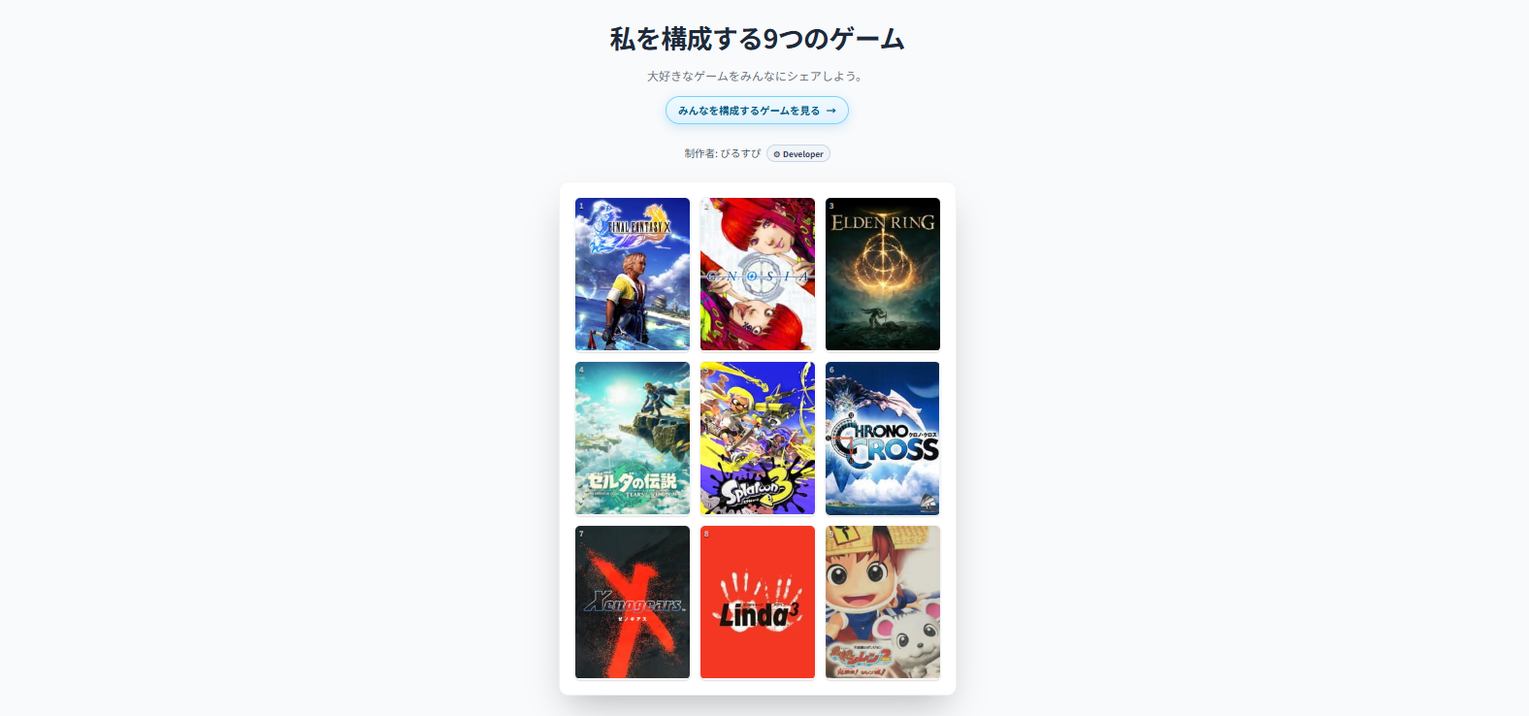
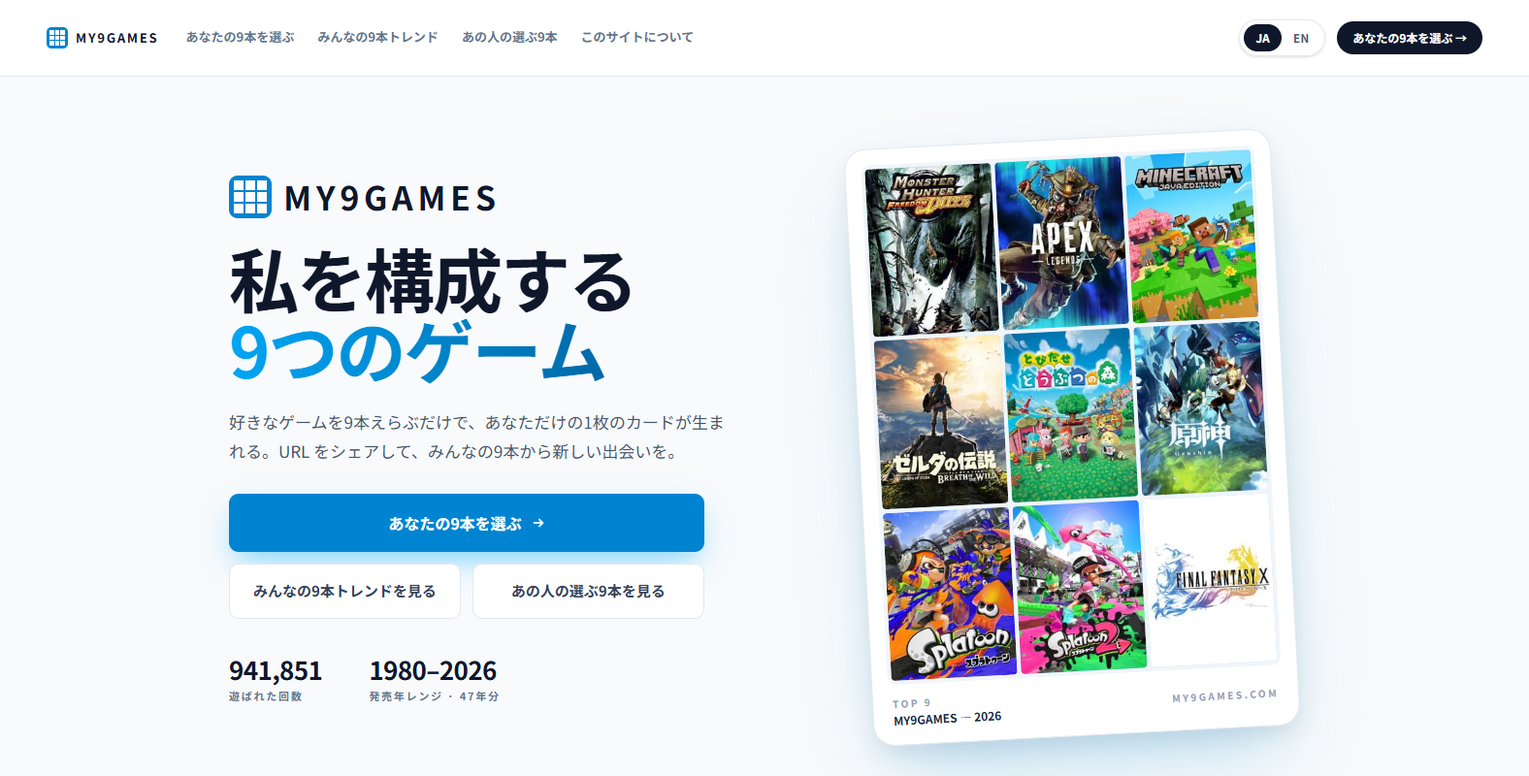
docs: my9games-devlog を改稿し、トップページのスクショを最新に差し替え
- 本文: 技術的な経緯（IGDB との提携、bot 対策、ホスティング移行、デプロイの自動化、データ設計の理由）と教訓の節を削り、感想と出来事を中心にした振り返りに書き直し
- 見出しを機能・出来事の名前に変更（共有機能、トレンドページ、3月4日、再開 など）。太字を削除
- 001.png: my9games.com の現在のトップページ（1576x800、広告なし）に差し替え

diff --git a/_posts/2026-03-20-my9games-devlog.md b/_posts/2026-03-20-my9games-devlog.md
@@ -21,15 +21,15 @@ last_modified_at: 2026-10-01 00:00:00 +0900
 
 これのゲーム版が欲しくなりまして、[MY9GAMES](https://my9games.com/)（My 9 Games \| 私を構成する9つのゲーム、以下「MY9GAMES」）というWebアプリをこの度作ってみました。9本のゲームを選んで3×3の画像にし、共有ページとして見せられるようにしたものです。投稿データを集計して、[コミュニティ全体でどんなゲームが選ばれているか](https://my9games.com/trends)も見られるようにしています。
 
-作り始めたときは、検索して、選んで、画像にできれば十分だと思っていました。ところがいざ公開運用を始めると、検索、画像生成、ランキング、コスト、保存方針、サイトのルールまで、色々と問題が立ち上がってきました。
+作り始めたときは、検索して、選んで、画像にできれば十分だと思っていました。ところが公開してみると、検索がエラーを返す、課金が膨らむ、画像の生成が失敗する、投稿をいつまで残すか決まっていない、と問題が次々に出てきました。
 
-この記事は、小さく始めたプロダクトが、公開運用の現実にぶつかったときの記録です。
+この記事では、2月13日に作り始めてから3月11日に落ち着くまでの約1か月を振り返ります。
 
 なお、ありがたいことに、はじめしゃちょーさんをはじめ多くの方に遊んでいただきました。
 
 <blockquote class="twitter-tweet"><p lang="ja" dir="ltr">私を構成する9つのゲーム <a href="https://twitter.com/hashtag/My9Games">#My9Games</a> <a href="https://twitter.com/hashtag/%E7%A7%81%E3%82%92%E6%A7%8B%E6%88%90%E3%81%99%E3%82%8B9%E3%81%A4%E3%81%AE%E3%82%B2%E3%83%BC%E3%83%A0">#私を構成する9つのゲーム</a></p>&mdash; はじめしゃちょー(hajime) (@hajimesyacho) <a href="https://twitter.com/hajimesyacho/status/2029858117530566731?ref_src=twsrc%5Etfw">March 5, 2026</a></blockquote> <script async src="https://platform.twitter.com/widgets.js" charset="utf-8"></script>
 
-こちらに様々な方の投稿をまとめています。
+こちらに様々な方の投稿をまとめています。一伊那尓栖さんとかもいて、マジすごい…。
 [あの人の選ぶ9本 | 推しクリエイターのゲーム選 | MY9GAMES](https://my9games.com/featured)
 
 メディアにも取り上げていただきました。
@@ -37,149 +37,88 @@ last_modified_at: 2026-10-01 00:00:00 +0900
 - [「My 9 Games」が流行の兆し。マイナータイトルや「ネタバレ防止機能」もある、ゲーム特化の思い出共有サイト - AUTOMATON](https://automaton-media.com/articles/newsjp/20260226-424512/)
 - [好きなゲーム9本を選んで自己紹介できるサイト「My9Games」が流行中 - 電ファミニコゲーマー](https://news.denfaminicogamer.jp/news/260226r)
 
-## なぜ「私を構成する9本のゲーム」を作ろうと思ったのか
+## なぜ「MY9GAMES」を作ろうと思ったのか
 
 出発点は、先ほど触れた「私を構成する9枚」でした。SNSで流行っていた頃に自分も参加したことがあって、あの「9つ並べるだけで自分が出る」感覚がずっと頭に残っていました。
 
-ある日ふと、「これのゲーム版があってもいいのでは？」と思いました。作りたかったのは、ランキングやレビューではなく、自己表現のためのフォーマットでしたので、最初から、一覧性のある3×3グリッドに並べるという形が中心にありましたし、画像にして持ち出せること、共有URLとして残せることまで、一続きの体験としてあったら面白いし、SNSで流行るに違いないと考えていました。
+ある日ふと、「これのゲーム版があってもいいのでは？」と思いました。
+
+画像にして持ち出せて、共有URLでも見せられる！そこまでできたら面白いし、SNSで流行るに違いないと思っていました。
 
 ## 構想から2日でMVPを作成
 
-2月13日に構想に着手し、15日にはMVP（Minimum Viable Product）を動かしました。ゲームを検索して、9本選んで、3×3に並べて、コメントを入れて、画像として保存できる。まずはそこまで通すことが目標でした。
+2月13日に考え始めて、15日にはMVP（Minimum Viable Product）が動きました。ゲームを検索して、9本選んで、3×3に並べて、コメントを入れて、画像として保存できる。まずはそこまで通すことが目標でした。
 
-このときは、後で問題になるだろうと薄々感じていたことも、かなり後回しにしています。公開運用を前提にした保存設計、共有URLの責務、コストの見積もり、集計の仕組み、削除方針……。今見ると危ういですが、早く公開してみたいという思いのもと、2日でMVPを立ち上げるにはその割り切りが必要でした。無謀ですね。
+このとき、後で問題になりそうだと薄々感じていたことも、かなり後回しにしています。投稿を何日保存するか、共有URLをいつまで有効にするか、月にいくらかかるか、ランキングをどう集計するか、消してほしいと言われたらどうするか……。早く公開してみたかったので、2日で作るために割り切りました。無謀ですね。
 
-実装はかなりシンプルです。検索して、選んで、グリッドに入れて、出力する。完成されたサービスというより、「まず遊べるもの」を成立させる立ち上げでした。
+実装がシンプルだったぶん、粗もすぐに見えてきました。検索UIの使い勝手、コメント編集の導線、9本選ぶまでの操作制御、モバイルでの見え方などです。
 
-ただ、そのぶん粗さもすぐに見えてきます。検索UIの使い勝手、コメント編集の導線、9本選ぶまでの操作制御、モバイルでの見え方。体験を一度通したことで、次に直すべきところが一気に浮かび上がりました。
+そして、後回しにしたものは結局ほとんどがあとで問題になりました。共有URLを付ける前に保存方針を決めておく、従量課金の増え方を見積もっておく、ランキングのデータを共有ページと分けておく。どれもあと数日あればできたことです。それをやらずに出した結果、7日後にサービスを止めることになり、その間ユーザーの検索の半分以上にエラーを返し続けてしまいました。早く出したから早く学べたのは事実ですが、早く出したから止めることになったのも事実で、そこは良くなかったと思っています。
 
-最初から全部を正しく設計しようとしなかったのは、結果的に良かったと思います。初速があったからこそ、「共有を入れた途端に何が足りなくなるか」「ランキングを作ろうとすると何が破綻するか」を早い段階で知ることができました。
-
-ただし、この初速にはそのまま代償がありました。共有URLを持たせる前に保存方針を決めておく、従量課金の増え方を見積もっておく、ランキングのデータ設計を共有ページと分けておく。どれもあと数日あればできたことです。それをやらずに出した結果、**7日後**にサービスを止めることになり、その間ユーザーには**半分以上**エラーを返し続ける状態を経験させています。早く出したから早く学べた、は事実ですが、早く出したから止めることになった、も同じくらい事実ですので、良くなかったと思います。
-
-## アプリではなくサービスになった
+## 共有機能
 
 MVPが動いた翌日から、共有機能やbot対策、アクセス制限の実装に取りかかり、2月19日にXでリリースを告知しました。
 
 <blockquote class="twitter-tweet"><p lang="ja" dir="ltr">【お知らせ】① 9本のゲームを選んで自己紹介できるサイトを作ってみました。 引用RTで画像や共有URLを貼ってシェアして遊んでみてください！ <a href="https://t.co/s9oNtITNHD">https://t.co/s9oNtITNHD</a> <a href="https://twitter.com/hashtag/My9Games">#My9Games</a> <a href="https://twitter.com/hashtag/%E7%A7%81%E3%82%92%E6%A7%8B%E6%88%90%E3%81%99%E3%82%8B9%E3%81%A4%E3%81%AE%E3%82%B2%E3%83%BC%E3%83%A0">#私を構成する9つのゲーム</a></p>&mdash; びるすぴ (@singingsores) <a href="https://twitter.com/singingsores/status/2024462993111789874?ref_src=twsrc%5Etfw">February 19, 2026</a></blockquote> <script async src="https://platform.twitter.com/widgets.js" charset="utf-8"></script>
 
-このWebアプリの最大の特徴は、共有URLの発行機能です。
+このWebアプリの最大の特徴は、やはり共有URLの発行機能ですよね。
 
-画像をローカルに保存するだけなら、ある程度はブラウザの中で完結します。ところが共有URLを発行して他人がアクセスできる状態にした瞬間、アプリというよりサービスとして考えないといけなくなりました。共有ページのURLは単なる識別子では済みません。他のユーザーと被らないID生成が必要ですし、第三者がアクセスする前提で、どんな入力を許すか、どのくらい保存するか、SNSシェア時のサムネイル画像をどう返すかまで決める必要があります。画像保存だけなら曖昧にできたことが、共有URLを持たせた途端に細かい仕様判断を迫られました。
+画像をローカルに保存するだけなら、ほぼブラウザの中で完結するのですが、共有URLを発行して他人が見られるようにすると、決めることが一気に増えました。
 
-ここで初めて、アクセス制限、入力チェック、サムネイル画像、利用規約、保存方針が一気に同じ問題としてつながりました。実装としては共有用のAPIを1本足しただけに見えますが、実態は「投稿を公開URLで持つサービス」です。ユーザー投稿をどう扱い、どこまで保持し、削除にどう対応するのか。実装だけでなく、サイトとしてのルールを決める必要が出てきました。
+他の人と被らないIDをどう作るか。知らない人が見る前提で、どんな入力を許すか。何日保存するか。SNSでシェアされたときのサムネイル画像をどう返すか…。
 
-なお、この時点でのゲーム検索は、ユーザーが文字を入力するたびに外部のゲームデータベースへリアルタイムで問い合わせる仕組みでした。この構造が、後にアクセス集中で致命傷になります。
+## トレンドページ
 
-## ランキング機能がもたらしたこと
+次にやりたくなったのが、みんながどんなゲームを選んでいるのかを見せるトレンドページです。自分の9本を作ったら、みんな全体の傾向も知りたくなるかと思いました。逆にトレンドを見てゲームを思い出し、自分の9本に追加するという流れもあるかとも思いました。
 
-次に見えてきたのが、「みんながどんなゲームを選んでいるのか」を見せたいという欲求です。自分の9本を作るだけでなく、全体の傾向も知りたい。実際にトレンドページは、このプロダクトの価値をもう一段広げる機能になりました。
-
-ただ、ここで問題になったのが、共有データの寿命とランキングの寿命は同じではないという点です。
-
-最初は、「共有ページが保存できていれば、あとで集計すればいい」と素朴に考えていました。でも実際には、共有ページは一時保存でも成立する一方、ランキングは日をまたいで残したい。共有ページは本人が満足したら消えても構わないかもしれませんが、ランキングは多くの投稿の積み重ねなので、個々の投稿が消えても保ちたい。このズレがある以上、すべてのデータを同じ保存先に押し込む設計は長く持ちませんでした。
-
-そこで、ランキング用の集計データを共有ページとは別に持つ方向へ進めました。共有ページの中身をそのまま読んで集計するのではなく、ランキングに必要な最小限の情報だけを別系統で保持する形です。さらに、投稿が作成されるたびにその場で重い集計処理を走らせるのではなく、まず記録だけ溜めておいて後でまとめて反映する仕組みも導入しました。単なる機能追加ではなく、データの持ち方の根本的な見直しでした。
-
-トレンドページを入れたことは、見た目以上にデータ設計をやり直すきっかけになりました。
-
-## バズで壊れて、一度停止
+## サイトを一次停止
 
 リリースから7日後の2026年2月26日、サービスを一度止めました。
 
 <blockquote class="twitter-tweet"><p lang="ja" dir="ltr">【お知らせ】 たくさんの方にご利用いただき本当にありがとうございます。現在、想定を大きく超えるアクセスが続いておりまして…完全に私単独の趣味の範囲で開発・保守をしているため、諸所の対応がSNSの拡散の力には到底追いつかない状況になってしまいました。 <a href="https://twitter.com/hashtag/My9Games">#My9Games</a> <a href="https://twitter.com/hashtag/%E7%A7%81%E3%82%92%E6%A7%8B%E6%88%90%E3%81%99%E3%82%8B9%E3%81%A4%E3%81%AE%E3%82%B2%E3%83%BC%E3%83%A0">#私を構成する9つのゲーム</a></p>&mdash; びるすぴ (@singingsores) <a href="https://twitter.com/singingsores/status/2026969121574043924?ref_src=twsrc%5Etfw">February 26, 2026</a></blockquote> <script async src="https://platform.twitter.com/widgets.js" charset="utf-8"></script>
 
-当時は、SNSでの拡散に対して検索系のエラーが高止まりしていました。停止前日の計測では、1日の検索回数が18万件を超え、そのうち半分以上がエラー。それでも1日に7,000件以上の投稿が作成されており、壊れかけのサービスにユーザーが押し寄せ続けている状況です。過去30分のアクティブユーザー数は7,000名ほどだったと記憶しています。
+停止前日の計測では、1日の検索回数が18万件を超え、そのうち半分以上がエラーでした。それでも投稿は1日に7,000件以上作られていて、過去30分のアクティブユーザー数は7,000名ほどだったと記憶しています。壊れかけのサービスに、人が押し寄せ続けていました。
 
-修正を入れても次のアクセスの波のほうが速く、しかもVercel（ホスティングサービス）の従量課金が重くのしかかっていました。検索のたびにサーバーレス関数が実行され、その実行回数とデータ転送量の両方で課金が回る。検索が重くなればユーザー体験が悪化し、対処のためにキャッシュや設定をいじっている間にもアクセスは増え、コストだけが先に膨らんでいく。
+ここで、動かしながら直すのはもう無理だと判断しました。検索、共有ページの読み込み、データの保存期間、画像生成、メンテナンスモードの切り替えまで、前提から作り直す必要がありました。
 
-単に「アクセスが増えて大変だった」という話ではありません。トラフィック、エラー率、修正速度、課金増加のどれも、事前の想定をはるかに超えていました。課金の通知を見たときの冷や汗は、なかなか忘れられません。
+止めるのは苦い決断でしたが、何を捨てて何を守るかははっきりしました。新規作成や重い検索は止めても、既にある共有ページは見られるようにしておきたい。アクセスのたびに外部へ問い合わせる検索は続けられない。画像生成も、作成時に必ず成功する前提では危ない……。
 
-ここで初めて、「動かしながら直す」では追いつかない段階に入ったと認識しました。小さな最適化やその場しのぎの制限では、構造的な問題は解決しない。検索の仕組み、共有ページの読み込み方、データの保存期間、画像生成の仕組み、メンテナンスモードの切り替え方まで、前提から見直す必要がありました。
+ユーザーの皆様にはご不便をおかけしました。
 
-止めたこと自体は苦い経験でした。ただ、ここで「何を捨てて、何を守るか」がかなりはっきりしました。新規作成や重い検索は止めても、既にある共有ページの閲覧は守りたい。アクセスのたびに外部サービスへ問い合わせる検索の仕組みは維持できない。画像生成も、作成時にすべて成功させる前提は危険だ……。以後の設計変更は、ほぼすべてこの整理に基づいています。
+## 3月4日、再開
 
-実はこの判断に至る前から、限界は見え始めていました。停止の前日（2月25日）には、検索や集計の基盤を当時のサーバー環境の外へ移す作業に着手しています。完全に止めてから考え始めたのではなく、「これはもう持たない」という感覚の中で並行して手を動かしていました。ユーザーの皆様にはご不便をおかけしたと思っています。
+3月4日の深夜にサーバーを切り替えて、サービスを再開しました。
 
-## 再開の条件
-
-停止後にやったことは、「何を作り直さないと再開できないか」を決める作業でした。停止からわずか2日後の2月28日には作り直しに着手し、3月4日深夜のサーバー切り替えに向けて集中的に進めています。
-
-再開を技術的に支えたのが、次の4つの設計変更です。共有ページの保存の仕組みを整理する、bot対策をCloudflare Turnstileによる認証ベースに改める、検索をリアルタイムの外部データベース問い合わせから外す、画像の配信を独立した仕組みに分ける。「見るだけで重くならない」「検索で落ちにくい」「画像配信が詰まりにくい」状態にするための作り直しです。
-
-bot対策については、停止前の段階で課金を抑えるためにAPI検索のレート制限をかなり厳しくしており、結果として正規のユーザーまで弾いてしまっていました。検索そのものを静的配信に切り替えたことでAPI経由のリアルタイム検索を廃止でき、レート制限自体が不要になっています。その上でCloudflare Turnstileという認証プラグインを入れて、botと正規ユーザーを仕組みで分けられるようにしました。
-
-ホスティング基盤もVercelからより安価な環境へ移行しました。これにより、アクセスが増えてもコストの増え方が緩やかになり、止めずに修正を回し続けられる余裕が生まれています。
-
-検索については、ユーザーが文字を入れるたびに外部のゲームデータベースへ問い合わせるのではなく、あらかじめ検索用のデータを作っておいて静的に配信する形へ移行しました。検索の負荷をリアルタイムの処理から外せるので、アクセス集中時の耐性がかなり変わります。
-
-この静的検索への切り替えには前提条件がありました。ゲーム検索に使っていた[IGDB](https://www.igdb.com/)のAPIには当然レート制限があり、データを丸ごとダンプして自前で配信するには通常のAPI利用規約の範囲では対応できません。そこで停止前日の2月25日、IGDB/Twitch側にデータパートナーシップを打診しました。結果としてパートナーシップを締結することができ、データダンプ機能が開放され、取得したデータのローカル保持も正式に許可されています。
-
-私にとって再開の条件は、「一応また動いた」ではなく、「壊れたときに、どこを止めて何を守るかを説明できる状態になった」ことでした。データベースの作り直しとサーバー基盤の移行の目処が立った段階で再開を判断したのも、そのためです。
-
-## ようやく公開運用に近づく
-
-3月4日の深夜、サーバー基盤を切り替え、サービスを再開しました。再開した瞬間にすべてが完璧になったわけではなく、SNSシェア時のサムネイルが表示されない、集計処理の失敗が投稿全体を巻き込むといった問題は切り替え直後から次々に見つかり、当日だけで**10件近い**修正を入れています。移行は一瞬のイベントではなく、ここから1週間以上続く安定化作業の始まりでした。
-
-しかも、切り替え直後の3月5日23時ごろには、GA4の過去30分アクティブユーザー数が**28,000名**を超えるピークが来ていました。
+切り替え直後の3月5日23時ごろには、GA4の過去30分アクティブユーザー数が28,000名を超えていました。皆さん待ち望んでくれていたのかもしれません。
 
 ![]({{ site.baseurl }}/assets/img/2026-03-20-my9games-devlog/003.png){:loading="lazy" decoding="async"}
 
 <div class="img-cap">3月5日23時ごろのアクセスピーク。GA4のリアルタイム画面より</div>
 
-このフェーズで大きかったのは、サーバー基盤の移行そのものより、運用の確認手順を仕組みに落とし込めたことです。「デプロイ前に必要な設定がすべて揃っているかの自動チェック」と「デプロイ直後に最低限の動作を確認する自動テスト」を整えました。公開URLや検索データの前提が壊れていないかを、人の手ではなく仕組みで確認する。手順書ではなく、実行可能な形にしていきました。
 
-ここで意識したのが、「壊れていたらちゃんと止める処理」と「多少失敗しても通して、後から回復すればよい処理」の使い分けです。画像生成や集計処理は後者を選びました。投稿の作成時にすべて成功しなくても、後から不足分を自動で再生成すればよい。一方、公開ページのアクセス制御やセキュリティに関わる処理は前者です。
+## 共有ページを残すことにした
 
-3月11日の夜、旧サーバー環境の痕跡をすべて除去し、新環境前提のデプロイ検証・監視・コードの型チェックまで一通り揃ったことを確認しました。停止から**約2週間**。ようやく「動けばよい」ではなく、「壊れたときの振る舞いも含めて運用できる」状態になりました。
+技術的な作り直しが落ち着いたあと、最後に変えたのはサイトのルールです。共有ページを、長く残す前提に切り替えています。
 
-## 最後に変えたもの
+最初は、共有データを一定期間で自動削除するつもりで、ユーザーが自分で投稿を消せる機能も一度は入れました。でも想定以上に拡散されて、投稿を長く残るものとして扱う必要が出てくると、一定期間で消すのはこちらの都合でしかなくなりました。投稿を消すと、本人だけでなく、それを見ていた人の体験まで消えてしまうのも良くないなと思いました。めちゃ著名な方も遊んでくれたのも大きいですね。
 
-技術的な作り直しが進んだあと、最後に大きく変わったのはサイトのルールそのものでした。
+そこで、共有URLは基本的に残すことにしました。
 
-象徴的だったのが、共有ページを長く残す前提にしたことです。
+## 反省
 
-初期には一定期間で共有データを自動削除する前提があり、ユーザー自身が投稿を削除できる導線も一度は入れました。ただ、想定以上に拡散され、長く残る投稿として扱う必要が出てくると、「一定期間で消える前提」は内部都合では済まなくなりました。投稿を消すことは、本人だけでなくその投稿を見ていた人の体験まで消してしまう。そう感じたからです。
+### 従量課金を甘く見ていた
 
-そこで、共有URLは基本的に残しつつ、古い投稿は非公開のアーカイブへ移し、個別削除は運用対応に寄せる形へ変えました。技術的な変更であると同時に、サービスとしての約束を決め直す作業でもありました。何を保存し、誰が削除判断を持ち、どこまでを公開上の約束にするのか。利用規約やプライバシーポリシーも含めて、曖昧にはできませんでした。
+いちばんの反省は、Vercelの従量課金を甘く見ていたことです。アクセスが増えるのは嬉しいはずなのに、増えた分だけ請求も増えて、サービスを続けられるかどうかの話になっていました。
 
-同時期に進めた英語UIや支援導線の整理も、機能追加というより運営方針の見直しでした。海外からの流入に対応し、支援導線もこのサービスの空気に合う形へ寄せていく。誰に向けて、どんな距離感で運営するのか。機能ではなく方針として整えていった感覚です。
+Vercelが悪いわけではありません。どの処理でデータ転送量が増え、どこでサーバーの計算が走り、どこをキャッシュで逃がせるかみたいなことは、公開前に最低限、見積もっておくべきでした。
 
-## 作って学んだこと
+### データベースの設計
 
-### 従量課金の恐ろしさ
-
-最大の反省は、Vercelの従量課金の増え方を甘く見たことです。トラフィックが増えれば嬉しい、で終わる段階ではなく、増えたトラフィックがそのままサービスの存続を削る構造でした。バズの瞬間に身をもって知りました。
-
-Vercelが悪いという話ではありません。どの処理がデータ転送量を生み、どこでサーバーの計算能力を使い、どこをキャッシュで逃がせるかを、公開前に最低限見積もっておくべきでした。課金モデルは機能と同じくらい早い段階で見ておくものだと痛感しています。
-
-### DB設計の負債
-
-データベース設計の知識不足は、後からかなり強く効きました。最初は「共有ページを保存できればよい」「集計できればよい」で進めていました。
-
-でも実際には、共有ページの保存期間とランキングの保持期間は違いますし、ユーザー自身による削除と分析データの整合も別問題です。公開運用・ランキング・アーカイブ・削除・メンテナンスモードまで乗ってくると、最初の設計では耐えられなくなります。
-
-短期間でデータベースの構造変更が何度も発生したのは、その返済を現実に合わせて進めた結果です。最初から全部正しく設計するのは難しくても、「寿命が違うデータは分けて保存する」という基本は、もっと早く意識しておくべきでした。
-
-### 処理の分業
-
-途中までは、キャッシュやアクセス制限、保存期間の調整などで耐えようとしていました。もちろんそれも必要です。ただ、本当に効いたのは、共有ページの閲覧と投稿データの更新を分け、検索を事前生成データからの配信に切り替え、画像を後から自動回復できる仕組みにしたことでした。
-
-1つの処理を速くするより、その処理が抱えている仕事を別の道に逃がすほうが効く。それが一番の実感です。
-
-### 公開URLの保存責任
-
-共有URLを作った時点で、保存・削除・利用ルールの問題は既に始まっています。技術が安定してから考えればいいものではありませんでした。
-
-最終的に「共有ページは基本的に残しつつ、古い投稿は非公開のアーカイブへ移し、ユーザー自身による削除機能は持たず、個別削除は運用対応に寄せる」という形に落ち着きました。最初からそこに辿り着いていたわけではありませんが、後からでもサイトのルールを明確に言い直せたのは、良かったと思っています。
+データベース設計も知識不足で、かなり苦労しました。共有ページの保存期間とランキングの保持期間は違いますし、ユーザーによる削除と分析データの整合も別の問題です。アーカイブやメンテナンスモードまで加わると最初の設計では対応しきれず、短期間にデータベースの構造を何度も変えることになりました。
 
 ## おわりに
 
-この開発を一言で振り返ると、昔からある自己表現ミームをゲーム版として作り、想定外のバズで壊れたあとに、公開運用に耐える形へ作り直した開発でした。
-
-構想から2日でMVPを作り、その4日後に公開し、そこからわずか7日でサービスを止めることになりました。停止から2日で作り直しに着手し、約2週間で新しいサーバー基盤での安定稼働にこぎつけています。
-
-小さく始めたものが、公開URLを持った瞬間にサービスになる。その感覚は、自分で体験してみないと分からないものだったと思います。
+2日でMVPを作り、4日後に公開し、7日後に止めて、そこから約2週間で立て直した1か月。流石に激動でしたが、作って良かったですね。世の中が待ち望んだサービスを爆誕させることができて、超スリリングな体験でした。
 
 よければ遊んでみてください。
 
